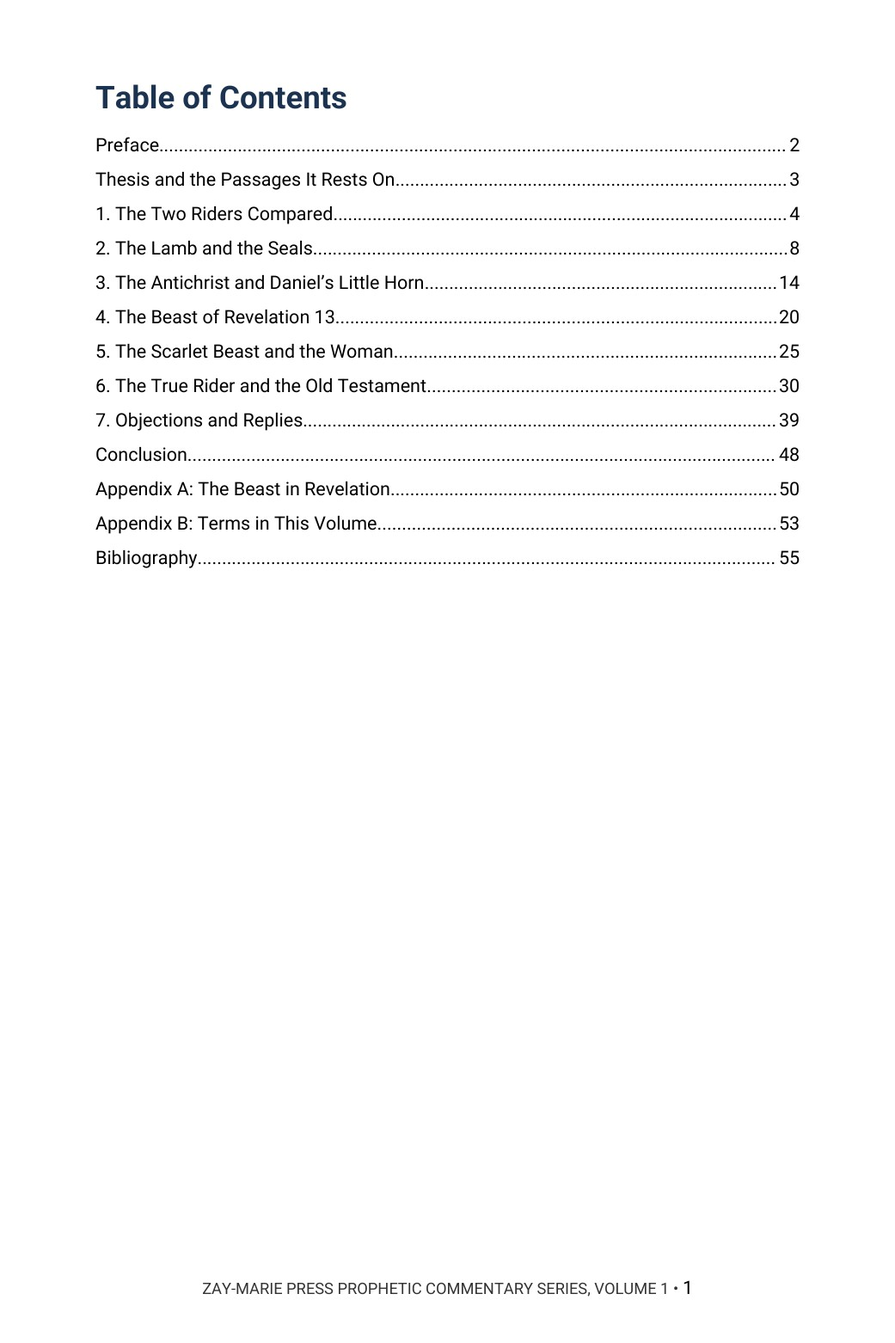
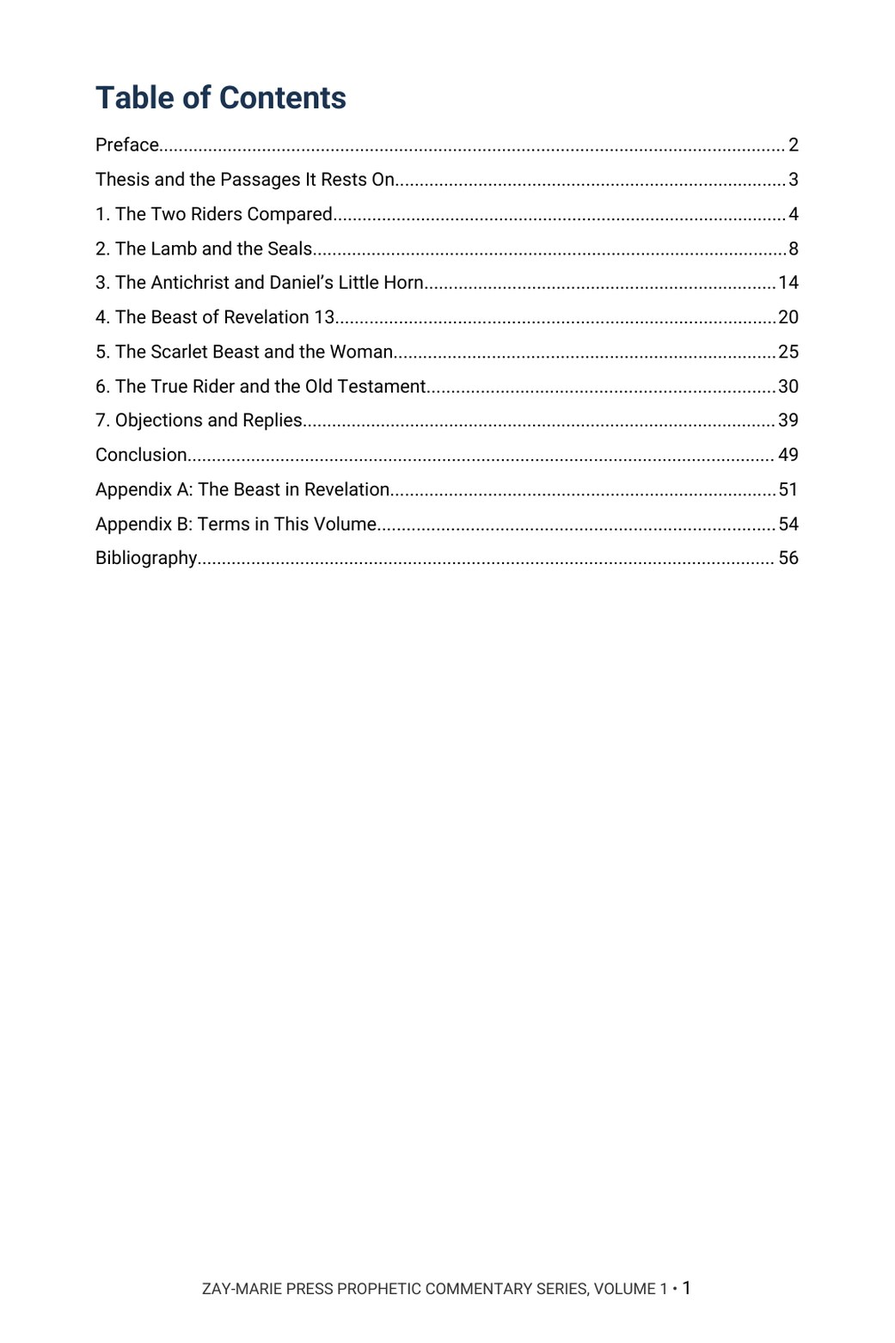
Commentary Vol. 1: re-render previews from 59-page draft; update page count
Claude-Session: https://claude.ai/code/session_016gZ1C7E7vw9tHx4aBPcnQe

diff --git a/commentary-01-two-riders.html b/commentary-01-two-riders.html
@@ -1,6 +1,6 @@
 <!doctype html>
 <html lang="en"><head><meta charset="utf-8"><meta name="viewport" content="width=device-width,initial-scale=1"><title>The Two Riders of Revelation | Zay-Marie Press</title><meta name="description" content="A commentary that argues who rides the white horse in Revelation 6:2 and 19:11, with the beast between them. Preview the 58-page digital volume."><link rel="stylesheet" href="styles.css?v=20260921-4"><link rel="icon" type="image/png" href="assets/zay-marie-press-favicon.png"><style>
-.study-detail-page{background:#fff;color:#252525}.detail-hero{background:linear-gradient(135deg,#f8f5ec,#e3ece2);padding:58px 0}.detail-hero-grid{display:grid;grid-template-columns:minmax(250px,.72fr) minmax(0,1.28fr);gap:58px;align-items:center}.detail-cover{max-width:390px;margin:auto}.detail-cover img{display:block;width:100%;height:auto;box-shadow:0 14px 36px rgba(8,45,69,.18)}.detail-hero h1{font-size:clamp(2.7rem,5vw,4.7rem);line-height:1.02;margin:8px 0 10px;color:#143823}.detail-subtitle{font-family:Georgia,serif;font-size:1.35rem;font-weight:700;color:#082d45;margin:0 0 7px}.detail-kicker{font-family:Georgia,serif;font-style:italic;font-size:1.05rem;color:#4a4a44;margin:0 0 22px}.detail-copy{font-size:1.08rem;line-height:1.65;max-width:760px}.detail-buyline{display:flex;align-items:center;gap:18px;flex-wrap:wrap;margin-top:25px}.detail-price{font-family:Georgia,serif;font-size:2rem;font-weight:700;color:#143823}.detail-format,.preview-card .page-no{font-family:Arial,sans-serif;font-size:.76rem;font-weight:700;letter-spacing:.1em;text-transform:uppercase;color:#176b3a}.detail-button{display:inline-block;background:#176b3a;color:#fff;padding:13px 22px;font-family:Arial,sans-serif;font-size:.8rem;font-weight:700;letter-spacing:.07em;text-transform:uppercase}.detail-button.pending{opacity:.72;cursor:default}.detail-section{padding:66px 0}.detail-section.soft{background:#f6f7f2}.detail-section.cream{background:#faf8f2}.detail-section h2{color:#143823;margin:6px 0 18px;font-size:clamp(2rem,3.4vw,3rem)}.detail-section .lead{max-width:920px;font-size:1.1rem;line-height:1.62}.study-distinction{max-width:920px;margin-top:28px;margin-bottom:28px;padding:26px 28px;background:#fff;border:1px solid #d8d1bf;border-left:4px solid #b8871c}.study-distinction h3{margin:0 0 10px;color:#143823}.study-distinction p{margin:0 0 14px;line-height:1.62}.study-distinction a{font-family:Arial,sans-serif;font-weight:700;color:#176b3a;text-decoration:none}.study-points{display:grid;grid-template-columns:repeat(3,1fr);gap:18px;margin-top:28px;margin-bottom:28px}.study-point,.scripture-card,.preview-card,.include-item{background:#fff;border:1px solid var(--line);text-align:left}.study-point{border-top:3px solid #176b3a;padding:22px}.study-point h3{color:#143823;margin:0 0 8px;font-size:1.2rem}.study-point p,.scripture-card p,.preview-card p,.include-item p{margin:0;line-height:1.55}.scripture-grid{display:grid;grid-template-columns:repeat(4,1fr);gap:14px;margin-top:24px;margin-bottom:24px}.scripture-card{padding:22px 20px;color:#143823}.scripture-card h3{margin:0 0 9px;font-family:Georgia,serif;font-size:1rem;line-height:1.35}.scripture-card p{font-size:.94rem;color:#45453f}.excerpt{max-width:900px;margin:28px auto;border-left:4px solid #b8871c;padding:10px 0 10px 28px}.excerpt blockquote{font-family:Georgia,serif;font-size:clamp(1.45rem,2.5vw,2rem);line-height:1.45;color:#143823;margin:0 0 16px}.excerpt p{line-height:1.6;margin:0}.preview-grid{display:grid;grid-template-columns:repeat(2,1fr);gap:20px;margin-top:28px;margin-bottom:28px}.preview-card{padding:18px;min-height:210px;box-shadow:0 7px 20px rgba(20,40,25,.05)}.preview-image-link{display:block;margin:0 0 18px}.preview-image-link img{display:block;width:100%;height:auto;border:1px solid #d8d1bf;box-shadow:0 8px 22px rgba(20,40,25,.1);transition:transform .18s ease,box-shadow .18s ease}.preview-image-link:hover img{transform:translateY(-2px);box-shadow:0 11px 28px rgba(20,40,25,.16)}.preview-card h3{color:#143823;margin:8px 0 10px}.preview-instruction{margin:10px 0 0;font-family:Arial,sans-serif;font-size:.78rem;letter-spacing:.04em;color:#5b5b55}.includes-grid{display:grid;grid-template-columns:repeat(4,1fr);gap:14px;margin-top:26px}.include-item{padding:22px 20px;color:#143823}.include-item h3{margin:0 0 9px;font-family:Arial,sans-serif;font-size:.86rem;line-height:1.35;letter-spacing:.02em}.include-item p{font-size:.94rem;color:#45453f}.final-buy{background:#082d45;color:#fff;border-top:4px solid #b8871c;padding:42px 48px;display:grid;grid-template-columns:1fr auto;gap:36px;align-items:center}.final-buy .eyebrow,.final-buy h2,.final-buy .detail-price{color:#fff}.final-buy h2{margin:7px 0 6px}.final-buy p{margin:0}.final-offer{text-align:center}.back-link{display:inline-block;margin-top:18px;color:#143823;font-family:Arial,sans-serif;font-weight:700;text-decoration:none}.preview-lightbox{position:fixed;inset:0;z-index:10000;display:none;align-items:flex-start;justify-content:center;background:rgba(8,22,16,.88);padding:24px;overflow:auto}.preview-lightbox.open{display:flex}.preview-lightbox img{display:block;width:auto;height:auto;max-width:none;box-shadow:0 18px 55px rgba(0,0,0,.4);background:#fff}.preview-lightbox-close{position:fixed;top:18px;right:24px;z-index:10001;width:46px;height:46px;border:1px solid rgba(255,255,255,.65);border-radius:50%;background:rgba(0,0,0,.55);color:#fff;font:32px/1 Arial,sans-serif;cursor:pointer}@media(max-width:900px){.detail-hero-grid{grid-template-columns:1fr;gap:34px}.detail-cover{max-width:330px}.study-points{grid-template-columns:repeat(2,1fr)}.scripture-grid,.includes-grid{grid-template-columns:repeat(2,1fr)}.preview-grid,.final-buy{grid-template-columns:1fr}.final-offer{text-align:left}}@media(max-width:560px){.detail-hero{padding:42px 0}.detail-section{padding:50px 0}.study-points,.scripture-grid,.includes-grid{grid-template-columns:1fr}.final-buy{padding:32px 24px}.detail-buyline{align-items:flex-start;flex-direction:column;gap:8px}.preview-lightbox{padding:58px 10px 24px}.preview-lightbox img{width:100%;max-width:100%;height:auto}} .detail-hero h1{font-size:clamp(2.1rem,4.2vw,3.7rem);line-height:1.08}.series-vol{display:grid;grid-template-columns:minmax(200px,.5fr) minmax(0,1fr);gap:40px;align-items:center;background:#fff;border:1px solid #d8d1bf;border-top:4px solid #b8871c;padding:30px;margin-top:28px}.series-vol img{display:block;width:100%;height:auto;box-shadow:0 12px 30px rgba(8,45,69,.2)}.series-vol h3{margin:4px 0 8px;font-size:1.8rem;color:#143823}.series-vol .sub{font-family:Georgia,serif;font-weight:700;color:#082d45;margin:0 0 10px}.series-facts{display:grid;grid-template-columns:repeat(3,1fr);gap:18px;margin-top:28px}.series-note{max-width:920px;margin-top:26px;padding:22px 26px;background:#fff;border:1px solid #d8d1bf;border-left:4px solid #082d45}.series-note p{margin:0;line-height:1.62}.series-vol a.detail-button{text-decoration:none}@media(max-width:900px){.series-vol{grid-template-columns:1fr}.series-facts{grid-template-columns:1fr}.series-vol img{max-width:300px;margin:auto}}.primary-nav a.ACTIVE{}</style></head><body class="study-detail-page"><header class="site-header"><div class="wrap nav"><a class="logo" href="index.html" aria-label="Zay-Marie Press home"><img src="assets/zay-marie-press-logo-hq.png" alt="Zay-Marie Press" width="420" height="238"></a><button class="menu-toggle" type="button" aria-expanded="false" aria-controls="primary-nav">MENU</button><nav aria-label="Primary navigation" class="primary-nav" id="primary-nav"><a href="index.html">HOME</a><a href="books.html">BOOKS</a><a href="series.html">SERIES</a><a href="digital-studies.html">DIGITAL STUDIES</a><a class="active" aria-current="page" href="prophetic-commentary-series.html">COMMENTARY</a><a href="biblical-hermeneutics-course.html">COURSE</a><a href="about.html">ABOUT</a><a href="resources.html">RESOURCES</a><a href="contact.html">CONTACT</a></nav></div></header><main><section class="detail-hero"><div class="wrap detail-hero-grid"><div class="detail-cover"><picture><source srcset="assets/commentary-01-cover.webp" type="image/webp"><img src="assets/commentary-01-cover.jpg" alt="The Two Riders of Revelation cover"></picture></div><div><div class="eyebrow">PROPHETIC COMMENTARY SERIES · VOLUME 1</div><h1>The Two Riders of Revelation</h1><p class="detail-subtitle">The Opening, the Consummation, and the Beast Between Them</p><p class="detail-kicker">Who rides the white horse when the Lamb opens the first seal, and who rides it when heaven is opened?</p><p class="detail-copy">Revelation shows two riders on white horses, thirteen chapters apart. Many readers take the second as a repetition of the first. This commentary argues that they are not the same, and defends that position from the whole Bible.</p><p class="detail-copy">It follows the first rider through the seals, Daniel’s little horn and the beasts of Revelation 13 and 17, answers the strongest objections in the objectors’ own words, and sets everything beside the rider of Revelation 19.</p><div class="detail-buyline"><span class="detail-price">$14.99</span><span class="detail-format">Digital PDF · 58 Pages</span><span class="detail-button pending" aria-disabled="true">Checkout Coming Soon</span></div></div></div></section>
+.study-detail-page{background:#fff;color:#252525}.detail-hero{background:linear-gradient(135deg,#f8f5ec,#e3ece2);padding:58px 0}.detail-hero-grid{display:grid;grid-template-columns:minmax(250px,.72fr) minmax(0,1.28fr);gap:58px;align-items:center}.detail-cover{max-width:390px;margin:auto}.detail-cover img{display:block;width:100%;height:auto;box-shadow:0 14px 36px rgba(8,45,69,.18)}.detail-hero h1{font-size:clamp(2.7rem,5vw,4.7rem);line-height:1.02;margin:8px 0 10px;color:#143823}.detail-subtitle{font-family:Georgia,serif;font-size:1.35rem;font-weight:700;color:#082d45;margin:0 0 7px}.detail-kicker{font-family:Georgia,serif;font-style:italic;font-size:1.05rem;color:#4a4a44;margin:0 0 22px}.detail-copy{font-size:1.08rem;line-height:1.65;max-width:760px}.detail-buyline{display:flex;align-items:center;gap:18px;flex-wrap:wrap;margin-top:25px}.detail-price{font-family:Georgia,serif;font-size:2rem;font-weight:700;color:#143823}.detail-format,.preview-card .page-no{font-family:Arial,sans-serif;font-size:.76rem;font-weight:700;letter-spacing:.1em;text-transform:uppercase;color:#176b3a}.detail-button{display:inline-block;background:#176b3a;color:#fff;padding:13px 22px;font-family:Arial,sans-serif;font-size:.8rem;font-weight:700;letter-spacing:.07em;text-transform:uppercase}.detail-button.pending{opacity:.72;cursor:default}.detail-section{padding:66px 0}.detail-section.soft{background:#f6f7f2}.detail-section.cream{background:#faf8f2}.detail-section h2{color:#143823;margin:6px 0 18px;font-size:clamp(2rem,3.4vw,3rem)}.detail-section .lead{max-width:920px;font-size:1.1rem;line-height:1.62}.study-distinction{max-width:920px;margin-top:28px;margin-bottom:28px;padding:26px 28px;background:#fff;border:1px solid #d8d1bf;border-left:4px solid #b8871c}.study-distinction h3{margin:0 0 10px;color:#143823}.study-distinction p{margin:0 0 14px;line-height:1.62}.study-distinction a{font-family:Arial,sans-serif;font-weight:700;color:#176b3a;text-decoration:none}.study-points{display:grid;grid-template-columns:repeat(3,1fr);gap:18px;margin-top:28px;margin-bottom:28px}.study-point,.scripture-card,.preview-card,.include-item{background:#fff;border:1px solid var(--line);text-align:left}.study-point{border-top:3px solid #176b3a;padding:22px}.study-point h3{color:#143823;margin:0 0 8px;font-size:1.2rem}.study-point p,.scripture-card p,.preview-card p,.include-item p{margin:0;line-height:1.55}.scripture-grid{display:grid;grid-template-columns:repeat(4,1fr);gap:14px;margin-top:24px;margin-bottom:24px}.scripture-card{padding:22px 20px;color:#143823}.scripture-card h3{margin:0 0 9px;font-family:Georgia,serif;font-size:1rem;line-height:1.35}.scripture-card p{font-size:.94rem;color:#45453f}.excerpt{max-width:900px;margin:28px auto;border-left:4px solid #b8871c;padding:10px 0 10px 28px}.excerpt blockquote{font-family:Georgia,serif;font-size:clamp(1.45rem,2.5vw,2rem);line-height:1.45;color:#143823;margin:0 0 16px}.excerpt p{line-height:1.6;margin:0}.preview-grid{display:grid;grid-template-columns:repeat(2,1fr);gap:20px;margin-top:28px;margin-bottom:28px}.preview-card{padding:18px;min-height:210px;box-shadow:0 7px 20px rgba(20,40,25,.05)}.preview-image-link{display:block;margin:0 0 18px}.preview-image-link img{display:block;width:100%;height:auto;border:1px solid #d8d1bf;box-shadow:0 8px 22px rgba(20,40,25,.1);transition:transform .18s ease,box-shadow .18s ease}.preview-image-link:hover img{transform:translateY(-2px);box-shadow:0 11px 28px rgba(20,40,25,.16)}.preview-card h3{color:#143823;margin:8px 0 10px}.preview-instruction{margin:10px 0 0;font-family:Arial,sans-serif;font-size:.78rem;letter-spacing:.04em;color:#5b5b55}.includes-grid{display:grid;grid-template-columns:repeat(4,1fr);gap:14px;margin-top:26px}.include-item{padding:22px 20px;color:#143823}.include-item h3{margin:0 0 9px;font-family:Arial,sans-serif;font-size:.86rem;line-height:1.35;letter-spacing:.02em}.include-item p{font-size:.94rem;color:#45453f}.final-buy{background:#082d45;color:#fff;border-top:4px solid #b8871c;padding:42px 48px;display:grid;grid-template-columns:1fr auto;gap:36px;align-items:center}.final-buy .eyebrow,.final-buy h2,.final-buy .detail-price{color:#fff}.final-buy h2{margin:7px 0 6px}.final-buy p{margin:0}.final-offer{text-align:center}.back-link{display:inline-block;margin-top:18px;color:#143823;font-family:Arial,sans-serif;font-weight:700;text-decoration:none}.preview-lightbox{position:fixed;inset:0;z-index:10000;display:none;align-items:flex-start;justify-content:center;background:rgba(8,22,16,.88);padding:24px;overflow:auto}.preview-lightbox.open{display:flex}.preview-lightbox img{display:block;width:auto;height:auto;max-width:none;box-shadow:0 18px 55px rgba(0,0,0,.4);background:#fff}.preview-lightbox-close{position:fixed;top:18px;right:24px;z-index:10001;width:46px;height:46px;border:1px solid rgba(255,255,255,.65);border-radius:50%;background:rgba(0,0,0,.55);color:#fff;font:32px/1 Arial,sans-serif;cursor:pointer}@media(max-width:900px){.detail-hero-grid{grid-template-columns:1fr;gap:34px}.detail-cover{max-width:330px}.study-points{grid-template-columns:repeat(2,1fr)}.scripture-grid,.includes-grid{grid-template-columns:repeat(2,1fr)}.preview-grid,.final-buy{grid-template-columns:1fr}.final-offer{text-align:left}}@media(max-width:560px){.detail-hero{padding:42px 0}.detail-section{padding:50px 0}.study-points,.scripture-grid,.includes-grid{grid-template-columns:1fr}.final-buy{padding:32px 24px}.detail-buyline{align-items:flex-start;flex-direction:column;gap:8px}.preview-lightbox{padding:58px 10px 24px}.preview-lightbox img{width:100%;max-width:100%;height:auto}} .detail-hero h1{font-size:clamp(2.1rem,4.2vw,3.7rem);line-height:1.08}.series-vol{display:grid;grid-template-columns:minmax(200px,.5fr) minmax(0,1fr);gap:40px;align-items:center;background:#fff;border:1px solid #d8d1bf;border-top:4px solid #b8871c;padding:30px;margin-top:28px}.series-vol img{display:block;width:100%;height:auto;box-shadow:0 12px 30px rgba(8,45,69,.2)}.series-vol h3{margin:4px 0 8px;font-size:1.8rem;color:#143823}.series-vol .sub{font-family:Georgia,serif;font-weight:700;color:#082d45;margin:0 0 10px}.series-facts{display:grid;grid-template-columns:repeat(3,1fr);gap:18px;margin-top:28px}.series-note{max-width:920px;margin-top:26px;padding:22px 26px;background:#fff;border:1px solid #d8d1bf;border-left:4px solid #082d45}.series-note p{margin:0;line-height:1.62}.series-vol a.detail-button{text-decoration:none}@media(max-width:900px){.series-vol{grid-template-columns:1fr}.series-facts{grid-template-columns:1fr}.series-vol img{max-width:300px;margin:auto}}.primary-nav a.ACTIVE{}</style></head><body class="study-detail-page"><header class="site-header"><div class="wrap nav"><a class="logo" href="index.html" aria-label="Zay-Marie Press home"><img src="assets/zay-marie-press-logo-hq.png" alt="Zay-Marie Press" width="420" height="238"></a><button class="menu-toggle" type="button" aria-expanded="false" aria-controls="primary-nav">MENU</button><nav aria-label="Primary navigation" class="primary-nav" id="primary-nav"><a href="index.html">HOME</a><a href="books.html">BOOKS</a><a href="series.html">SERIES</a><a href="digital-studies.html">DIGITAL STUDIES</a><a class="active" aria-current="page" href="prophetic-commentary-series.html">COMMENTARY</a><a href="biblical-hermeneutics-course.html">COURSE</a><a href="about.html">ABOUT</a><a href="resources.html">RESOURCES</a><a href="contact.html">CONTACT</a></nav></div></header><main><section class="detail-hero"><div class="wrap detail-hero-grid"><div class="detail-cover"><picture><source srcset="assets/commentary-01-cover.webp" type="image/webp"><img src="assets/commentary-01-cover.jpg" alt="The Two Riders of Revelation cover"></picture></div><div><div class="eyebrow">PROPHETIC COMMENTARY SERIES · VOLUME 1</div><h1>The Two Riders of Revelation</h1><p class="detail-subtitle">The Opening, the Consummation, and the Beast Between Them</p><p class="detail-kicker">Who rides the white horse when the Lamb opens the first seal, and who rides it when heaven is opened?</p><p class="detail-copy">Revelation shows two riders on white horses, thirteen chapters apart. Many readers take the second as a repetition of the first. This commentary argues that they are not the same, and defends that position from the whole Bible.</p><p class="detail-copy">It follows the first rider through the seals, Daniel’s little horn and the beasts of Revelation 13 and 17, answers the strongest objections in the objectors’ own words, and sets everything beside the rider of Revelation 19.</p><div class="detail-buyline"><span class="detail-price">$14.99</span><span class="detail-format">Digital PDF · 59 Pages</span><span class="detail-button pending" aria-disabled="true">Checkout Coming Soon</span></div></div></div></section>
 <section class="detail-section"><div class="wrap"><div class="eyebrow">ABOUT THIS VOLUME</div><h2>A Commentary That Argues a Position</h2><p class="lead">This volume does not survey the views and leave the choice to the reader. It states what the author believes the passages teach, sets out the evidence from Genesis to Revelation, and quotes those who disagree, with their works and sources given, so that the objections are met where they are strongest.</p><p class="lead">It is a different kind of book from the Digital Studies. A Digital Study walks through a passage and reports what the text says. A Commentary Volume takes one theme, states a position and defends it. Readers of Study 74 (The Man of Sin) and Study 61 (Revelation 12) will find neighbouring ground here, argued rather than only reported. Scripture is quoted from the King James Version throughout.</p>
 <div class="study-distinction"><h3>Related Reading</h3><p><a href="study-74-the-man-of-sin.html">Study 74 — The Man of Sin</a> The passages on the man of sin, set out as written.</p><p><a href="study-61-revelation-12.html">Study 61 — Revelation 12</a> The chapter that stands between the riders and the beast.</p><p class="connection-guide-link"><a href="prophetic-commentary-series.html">About the Prophetic Commentary Series →</a></p></div>
 <div class="eyebrow">WHAT THE VOLUME COVERS</div><h2>From the Opening of the Seals to the Return of the King</h2><div class="study-points"><div class="study-point"><h3>The Two Riders Compared</h3><p>Set Revelation 6:2 beside Revelation 19:11–21 and see what they share and what they do not.</p></div><div class="study-point"><h3>The Lamb and the Seals</h3><p>Read the first seal in the order of the Lord’s own forecast on the Mount of Olives.</p></div><div class="study-point"><h3>Daniel’s Little Horn</h3><p>Trace the Antichrist through Daniel, 2 Thessalonians and the Gospels.</p></div><div class="study-point"><h3>The Beast of Revelation 13</h3><p>Compare the beast with Daniel’s little horn, his number, his wound and his image.</p></div><div class="study-point"><h3>The Scarlet Beast and the Woman</h3><p>Read Revelation 17 beside Daniel’s kingdoms, with the heads, the horns and the city.</p></div><div class="study-point"><h3>Objections and Replies</h3><p>Hear the other views in their own words and examine each against the text.</p></div></div>

diff --git a/prophetic-commentary-series.html b/prophetic-commentary-series.html
@@ -3,5 +3,5 @@
 .study-detail-page{background:#fff;color:#252525}.detail-hero{background:linear-gradient(135deg,#f8f5ec,#e3ece2);padding:58px 0}.detail-hero-grid{display:grid;grid-template-columns:minmax(250px,.72fr) minmax(0,1.28fr);gap:58px;align-items:center}.detail-cover{max-width:390px;margin:auto}.detail-cover img{display:block;width:100%;height:auto;box-shadow:0 14px 36px rgba(8,45,69,.18)}.detail-hero h1{font-size:clamp(2.7rem,5vw,4.7rem);line-height:1.02;margin:8px 0 10px;color:#143823}.detail-subtitle{font-family:Georgia,serif;font-size:1.35rem;font-weight:700;color:#082d45;margin:0 0 7px}.detail-kicker{font-family:Georgia,serif;font-style:italic;font-size:1.05rem;color:#4a4a44;margin:0 0 22px}.detail-copy{font-size:1.08rem;line-height:1.65;max-width:760px}.detail-buyline{display:flex;align-items:center;gap:18px;flex-wrap:wrap;margin-top:25px}.detail-price{font-family:Georgia,serif;font-size:2rem;font-weight:700;color:#143823}.detail-format,.preview-card .page-no{font-family:Arial,sans-serif;font-size:.76rem;font-weight:700;letter-spacing:.1em;text-transform:uppercase;color:#176b3a}.detail-button{display:inline-block;background:#176b3a;color:#fff;padding:13px 22px;font-family:Arial,sans-serif;font-size:.8rem;font-weight:700;letter-spacing:.07em;text-transform:uppercase}.detail-button.pending{opacity:.72;cursor:default}.detail-section{padding:66px 0}.detail-section.soft{background:#f6f7f2}.detail-section.cream{background:#faf8f2}.detail-section h2{color:#143823;margin:6px 0 18px;font-size:clamp(2rem,3.4vw,3rem)}.detail-section .lead{max-width:920px;font-size:1.1rem;line-height:1.62}.study-distinction{max-width:920px;margin-top:28px;margin-bottom:28px;padding:26px 28px;background:#fff;border:1px solid #d8d1bf;border-left:4px solid #b8871c}.study-distinction h3{margin:0 0 10px;color:#143823}.study-distinction p{margin:0 0 14px;line-height:1.62}.study-distinction a{font-family:Arial,sans-serif;font-weight:700;color:#176b3a;text-decoration:none}.study-points{display:grid;grid-template-columns:repeat(3,1fr);gap:18px;margin-top:28px;margin-bottom:28px}.study-point,.scripture-card,.preview-card,.include-item{background:#fff;border:1px solid var(--line);text-align:left}.study-point{border-top:3px solid #176b3a;padding:22px}.study-point h3{color:#143823;margin:0 0 8px;font-size:1.2rem}.study-point p,.scripture-card p,.preview-card p,.include-item p{margin:0;line-height:1.55}.scripture-grid{display:grid;grid-template-columns:repeat(4,1fr);gap:14px;margin-top:24px;margin-bottom:24px}.scripture-card{padding:22px 20px;color:#143823}.scripture-card h3{margin:0 0 9px;font-family:Georgia,serif;font-size:1rem;line-height:1.35}.scripture-card p{font-size:.94rem;color:#45453f}.excerpt{max-width:900px;margin:28px auto;border-left:4px solid #b8871c;padding:10px 0 10px 28px}.excerpt blockquote{font-family:Georgia,serif;font-size:clamp(1.45rem,2.5vw,2rem);line-height:1.45;color:#143823;margin:0 0 16px}.excerpt p{line-height:1.6;margin:0}.preview-grid{display:grid;grid-template-columns:repeat(2,1fr);gap:20px;margin-top:28px;margin-bottom:28px}.preview-card{padding:18px;min-height:210px;box-shadow:0 7px 20px rgba(20,40,25,.05)}.preview-image-link{display:block;margin:0 0 18px}.preview-image-link img{display:block;width:100%;height:auto;border:1px solid #d8d1bf;box-shadow:0 8px 22px rgba(20,40,25,.1);transition:transform .18s ease,box-shadow .18s ease}.preview-image-link:hover img{transform:translateY(-2px);box-shadow:0 11px 28px rgba(20,40,25,.16)}.preview-card h3{color:#143823;margin:8px 0 10px}.preview-instruction{margin:10px 0 0;font-family:Arial,sans-serif;font-size:.78rem;letter-spacing:.04em;color:#5b5b55}.includes-grid{display:grid;grid-template-columns:repeat(4,1fr);gap:14px;margin-top:26px}.include-item{padding:22px 20px;color:#143823}.include-item h3{margin:0 0 9px;font-family:Arial,sans-serif;font-size:.86rem;line-height:1.35;letter-spacing:.02em}.include-item p{font-size:.94rem;color:#45453f}.final-buy{background:#082d45;color:#fff;border-top:4px solid #b8871c;padding:42px 48px;display:grid;grid-template-columns:1fr auto;gap:36px;align-items:center}.final-buy .eyebrow,.final-buy h2,.final-buy .detail-price{color:#fff}.final-buy h2{margin:7px 0 6px}.final-buy p{margin:0}.final-offer{text-align:center}.back-link{display:inline-block;margin-top:18px;color:#143823;font-family:Arial,sans-serif;font-weight:700;text-decoration:none}.preview-lightbox{position:fixed;inset:0;z-index:10000;display:none;align-items:flex-start;justify-content:center;background:rgba(8,22,16,.88);padding:24px;overflow:auto}.preview-lightbox.open{display:flex}.preview-lightbox img{display:block;width:auto;height:auto;max-width:none;box-shadow:0 18px 55px rgba(0,0,0,.4);background:#fff}.preview-lightbox-close{position:fixed;top:18px;right:24px;z-index:10001;width:46px;height:46px;border:1px solid rgba(255,255,255,.65);border-radius:50%;background:rgba(0,0,0,.55);color:#fff;font:32px/1 Arial,sans-serif;cursor:pointer}@media(max-width:900px){.detail-hero-grid{grid-template-columns:1fr;gap:34px}.detail-cover{max-width:330px}.study-points{grid-template-columns:repeat(2,1fr)}.scripture-grid,.includes-grid{grid-template-columns:repeat(2,1fr)}.preview-grid,.final-buy{grid-template-columns:1fr}.final-offer{text-align:left}}@media(max-width:560px){.detail-hero{padding:42px 0}.detail-section{padding:50px 0}.study-points,.scripture-grid,.includes-grid{grid-template-columns:1fr}.final-buy{padding:32px 24px}.detail-buyline{align-items:flex-start;flex-direction:column;gap:8px}.preview-lightbox{padding:58px 10px 24px}.preview-lightbox img{width:100%;max-width:100%;height:auto}} .detail-hero h1{font-size:clamp(2.1rem,4.2vw,3.7rem);line-height:1.08}.series-vol{display:grid;grid-template-columns:minmax(200px,.5fr) minmax(0,1fr);gap:40px;align-items:center;background:#fff;border:1px solid #d8d1bf;border-top:4px solid #b8871c;padding:30px;margin-top:28px}.series-vol img{display:block;width:100%;height:auto;box-shadow:0 12px 30px rgba(8,45,69,.2)}.series-vol h3{margin:4px 0 8px;font-size:1.8rem;color:#143823}.series-vol .sub{font-family:Georgia,serif;font-weight:700;color:#082d45;margin:0 0 10px}.series-facts{display:grid;grid-template-columns:repeat(3,1fr);gap:18px;margin-top:28px}.series-note{max-width:920px;margin-top:26px;padding:22px 26px;background:#fff;border:1px solid #d8d1bf;border-left:4px solid #082d45}.series-note p{margin:0;line-height:1.62}.series-vol a.detail-button{text-decoration:none}@media(max-width:900px){.series-vol{grid-template-columns:1fr}.series-facts{grid-template-columns:1fr}.series-vol img{max-width:300px;margin:auto}}.primary-nav a.ACTIVE{}</style></head><body class="study-detail-page"><header class="site-header"><div class="wrap nav"><a class="logo" href="index.html" aria-label="Zay-Marie Press home"><img src="assets/zay-marie-press-logo-hq.png" alt="Zay-Marie Press" width="420" height="238"></a><button class="menu-toggle" type="button" aria-expanded="false" aria-controls="primary-nav">MENU</button><nav aria-label="Primary navigation" class="primary-nav" id="primary-nav"><a href="index.html">HOME</a><a href="books.html">BOOKS</a><a href="series.html">SERIES</a><a href="digital-studies.html">DIGITAL STUDIES</a><a class="active" aria-current="page" href="prophetic-commentary-series.html">COMMENTARY</a><a href="biblical-hermeneutics-course.html">COURSE</a><a href="about.html">ABOUT</a><a href="resources.html">RESOURCES</a><a href="contact.html">CONTACT</a></nav></div></header><main><section class="detail-hero"><div class="wrap"><div class="eyebrow">ZAY-MARIE PRESS</div><h1>Prophetic Commentary Series</h1><p class="detail-subtitle">One theme in each volume, argued from the whole Bible</p><p class="detail-copy">Each volume takes a single prophetic question, states a position and defends it from Genesis to Revelation. Opposing views are quoted in their own words, with their sources named, and answered from Scripture.</p></div></section>
 <section class="detail-section"><div class="wrap"><div class="eyebrow">THE SERIES</div><h2>What Every Volume Does</h2><div class="series-facts"><div class="study-point"><h3>One Theme</h3><p>Each volume takes one question and gives it room, in about fifty to seventy pages.</p></div><div class="study-point"><h3>A Stated Position</h3><p>The volume says what it holds and why, and does not leave the reader to sort out the views alone.</p></div><div class="study-point"><h3>Fair to Opponents</h3><p>Those who disagree are quoted accurately, with the work and the source given, and never made to say more than they said.</p></div><div class="study-point"><h3>King James Text</h3><p>Scripture is quoted from the King James Version, and every quotation is checked against it.</p></div><div class="study-point"><h3>A Bibliography</h3><p>Every source is listed, with where it can be checked.</p></div><div class="study-point"><h3>Digital PDF</h3><p>Each volume is priced from $14.99 to $19.99 and licensed for personal use.</p></div></div>
 <div class="series-note"><p>The Prophetic Commentary Series is separate from the Digital Studies. A Digital Study walks through a passage and reports what the text says; a Commentary Volume argues a position on one theme.</p></div>
-<div class="eyebrow" style="margin-top:44px">VOLUME 1</div><h2>Now in the Series</h2><div class="series-vol"><a href="commentary-01-two-riders.html"><picture><source srcset="assets/commentary-01-cover.webp" type="image/webp"><img src="assets/commentary-01-cover.jpg" alt="The Two Riders of Revelation cover"></picture></a><div><div class="page-no detail-format">Volume 1 · 58 Pages</div><h3>The Two Riders of Revelation</h3><p class="sub">The Opening, the Consummation, and the Beast Between Them</p><p>Who rides the white horse when the Lamb opens the first seal, and who rides it when heaven is opened? The volume argues that the two riders are not the same, and defends the position from the whole Bible.</p><div class="detail-buyline"><span class="detail-price">$14.99</span><a class="detail-button" href="commentary-01-two-riders.html">View Volume 1</a></div></div></div></div></section>
+<div class="eyebrow" style="margin-top:44px">VOLUME 1</div><h2>Now in the Series</h2><div class="series-vol"><a href="commentary-01-two-riders.html"><picture><source srcset="assets/commentary-01-cover.webp" type="image/webp"><img src="assets/commentary-01-cover.jpg" alt="The Two Riders of Revelation cover"></picture></a><div><div class="page-no detail-format">Volume 1 · 59 Pages</div><h3>The Two Riders of Revelation</h3><p class="sub">The Opening, the Consummation, and the Beast Between Them</p><p>Who rides the white horse when the Lamb opens the first seal, and who rides it when heaven is opened? The volume argues that the two riders are not the same, and defends the position from the whole Bible.</p><div class="detail-buyline"><span class="detail-price">$14.99</span><a class="detail-button" href="commentary-01-two-riders.html">View Volume 1</a></div></div></div></div></section>
 </main><footer class="site-footer"><div class="wrap footer-grid"><div class="footer-about"><h3>Zay-Marie Press</h3><p class="footer-tagline"><em>Where the Bible Means What It Says.</em></p><p>Zay-Marie Press is a Christian theological publisher dedicated to producing doctrinally precise, carefully structured biblical resources that equip pastors, teachers, and serious students with clarity, depth, and Scripture-anchored truth.</p><p><a href="https://zaymariepress.com">zaymariepress.com</a><br><a href="mailto:info@zaymariepress.com">info@zaymariepress.com</a></p></div><div class="footer-column"><h3>Explore</h3><div class="footer-links-stacked"><a href="books.html">Books</a><br><a href="series.html">Series</a><br><a href="biblical-hermeneutics-course.html">Course</a><br><a href="digital-studies.html">Digital Studies</a><br><a href="parables.html">Parable Studies</a><br><a href="resources.html">Resources</a><br><a href="bible-book-summaries.html">Bible Book Summaries</a><br><a href="doctrinal-packets.html">Doctrinal Packets</a><br><a href="historical-drift.html">Historical Drift</a><br><a href="about.html">About</a><br><a href="contact.html">Contact</a></div></div><div class="footer-column"><h3>Reader Support</h3><div class="footer-links-stacked"><a href="reader-support.html#faq">FAQ</a><br><a href="reader-support.html#shipping-returns">Shipping &amp; Returns</a><br><a href="reader-support.html#digital-downloads">Digital Downloads</a><br><a href="reader-support.html#contact-support">Contact Support</a></div></div><div class="footer-column"><h3>Acts Overlap</h3><p><strong>Acts Overlap Theology Series</strong></p><p><em>Two Distinct Streams. One Overlap.</em></p><p><a href="series.html">Series Overview</a></p></div></div><div class="wrap footer-bottom">© 2026 Zay-Marie Press. All rights reserved.</div></footer><script src="site.js"></script><script>const lightbox=document.getElementById('preview-lightbox'),lightboxImage=document.getElementById('preview-lightbox-image'),closeLightbox=()=>{lightbox.classList.remove('open');lightboxImage.src='';};document.querySelectorAll('[data-preview-lightbox]').forEach(link=>link.addEventListener('click',event=>{event.preventDefault();lightboxImage.src=link.href;lightboxImage.alt=link.querySelector('img').alt;lightbox.classList.add('open');}));document.querySelector('.preview-lightbox-close').addEventListener('click',closeLightbox);lightbox.addEventListener('click',event=>{if(event.target===lightbox)closeLightbox();});document.addEventListener('keydown',event=>{if(event.key==='Escape')closeLightbox();});</script></body></html>
